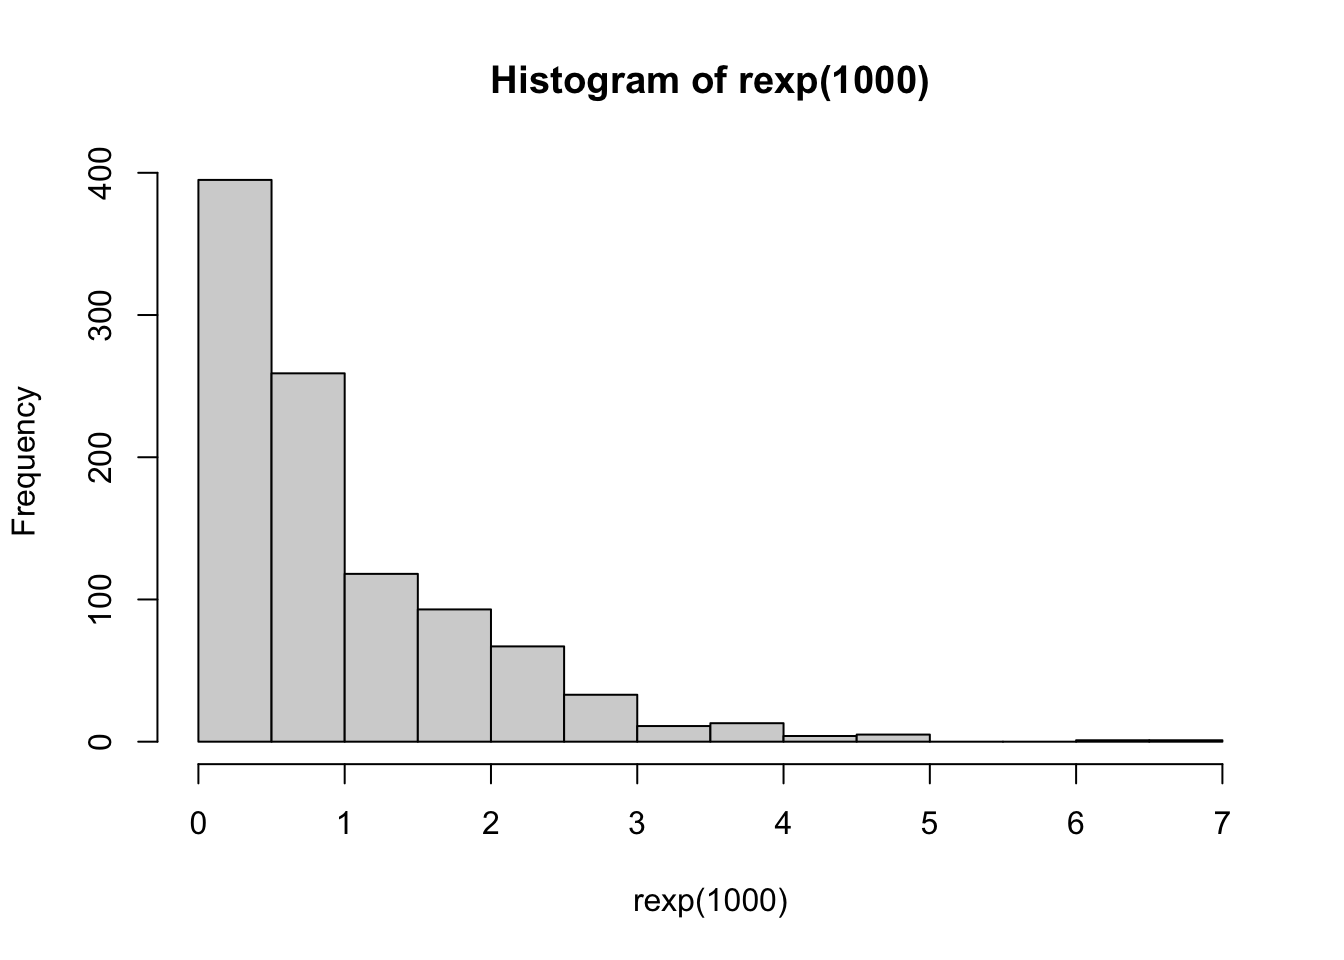
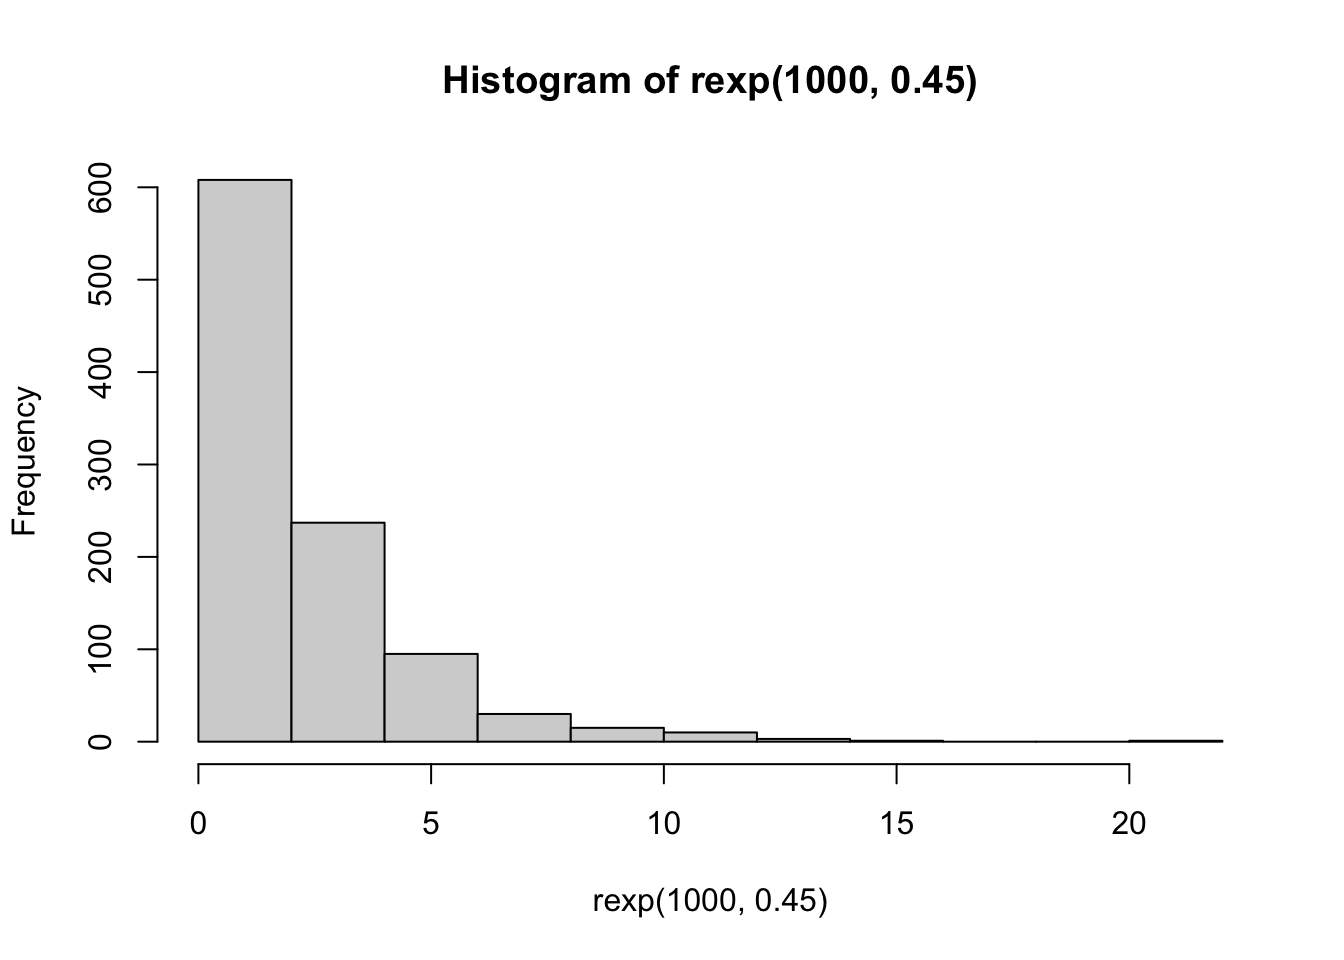
test commit 2

diff --git a/_site/index.html b/_site/index.html
@@ -171,7 +171,7 @@ pre > code.sourceCode > span > a:first-child::before { text-decoration: underlin
 <p>This is a Quarto website.</p>
 <p>To learn more about Quarto websites visit <a href="https://quarto.org/docs/websites" class="uri">https://quarto.org/docs/websites</a>.</p>
 <div class="cell">
-<div class="code-copy-outer-scaffold"><div class="sourceCode cell-code" id="cb1"><pre class="sourceCode r code-with-copy"><code class="sourceCode r"><span id="cb1-1"><a href="#cb1-1" aria-hidden="true" tabindex="-1"></a><span class="fu">hist</span>(<span class="fu">rexp</span>(<span class="dv">1000</span>))</span></code></pre></div><button title="Copy to Clipboard" class="code-copy-button"><i class="bi"></i></button></div>
+<div class="code-copy-outer-scaffold"><div class="sourceCode cell-code" id="cb1"><pre class="sourceCode r code-with-copy"><code class="sourceCode r"><span id="cb1-1"><a href="#cb1-1" aria-hidden="true" tabindex="-1"></a><span class="fu">hist</span>(<span class="fu">rexp</span>(<span class="dv">1000</span>, <span class="fl">0.45</span>))</span></code></pre></div><button title="Copy to Clipboard" class="code-copy-button"><i class="bi"></i></button></div>
 <div class="cell-output-display">
 <div>
 <figure class="figure">
@@ -180,7 +180,6 @@ pre > code.sourceCode > span > a:first-child::before { text-decoration: underlin
 </div>
 </div>
 </div>
-<p>Hello hello hello testing update</p>
 
 
 
